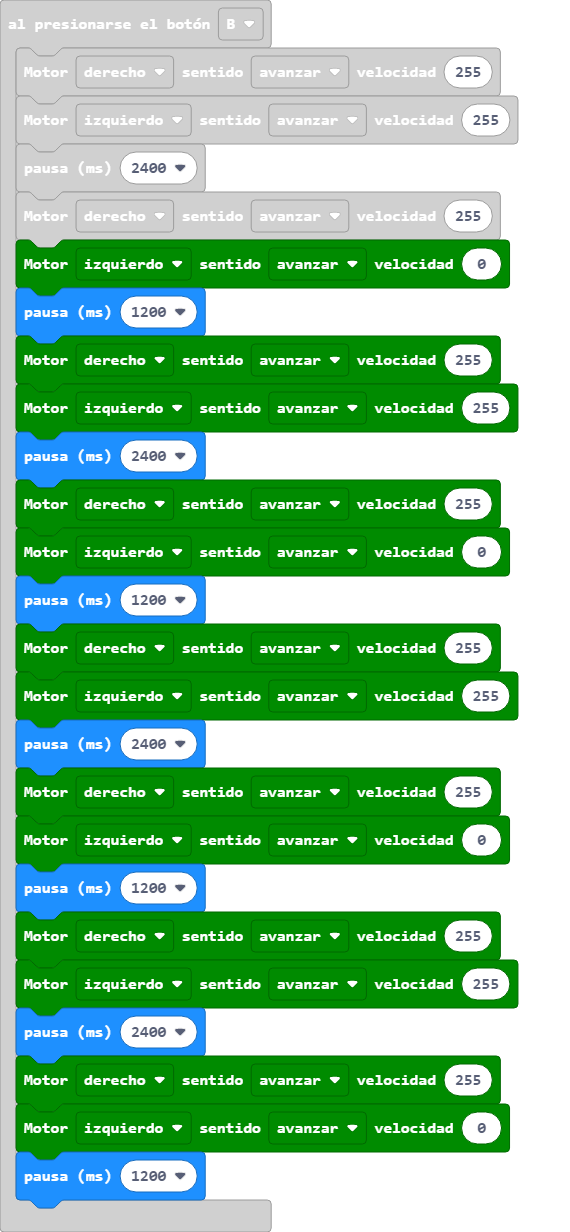
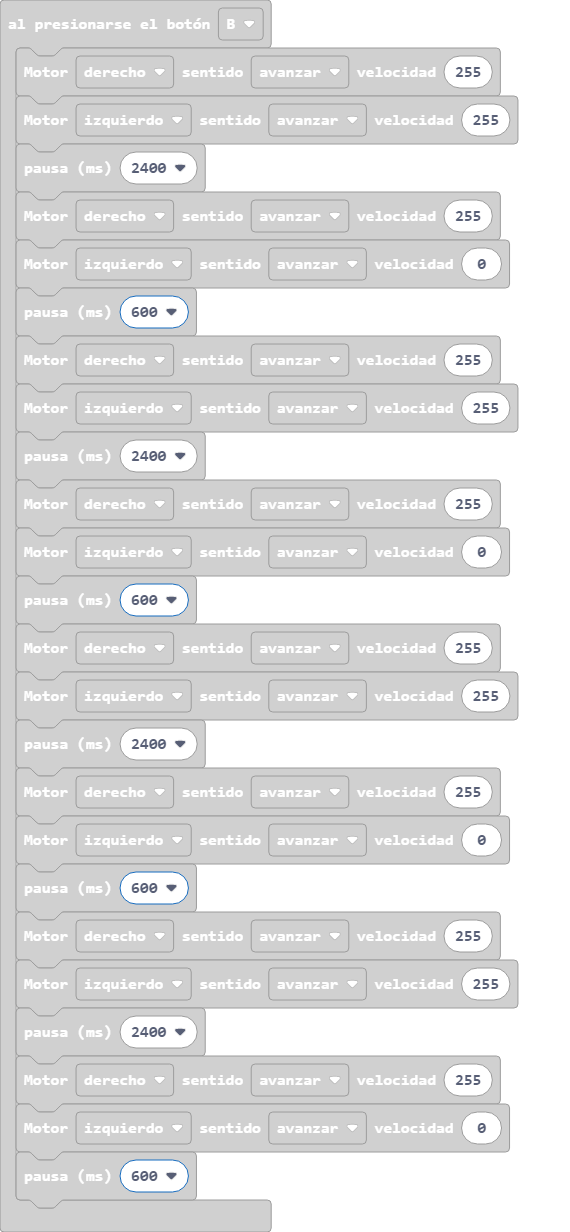
Actualizar main.blocks, main.ts

diff --git a/main.ts b/main.ts
@@ -20,23 +20,23 @@ input.onButtonPressed(Button.B, function () {
     basic.pause(2400)
     maqueen.motorRun(maqueen.Motors.M2, maqueen.Dir.CW, 255)
     maqueen.motorRun(maqueen.Motors.M1, maqueen.Dir.CW, 0)
-    basic.pause(1200)
+    basic.pause(600)
     maqueen.motorRun(maqueen.Motors.M2, maqueen.Dir.CW, 255)
     maqueen.motorRun(maqueen.Motors.M1, maqueen.Dir.CW, 255)
     basic.pause(2400)
     maqueen.motorRun(maqueen.Motors.M2, maqueen.Dir.CW, 255)
     maqueen.motorRun(maqueen.Motors.M1, maqueen.Dir.CW, 0)
-    basic.pause(1200)
+    basic.pause(600)
     maqueen.motorRun(maqueen.Motors.M2, maqueen.Dir.CW, 255)
     maqueen.motorRun(maqueen.Motors.M1, maqueen.Dir.CW, 255)
     basic.pause(2400)
     maqueen.motorRun(maqueen.Motors.M2, maqueen.Dir.CW, 255)
     maqueen.motorRun(maqueen.Motors.M1, maqueen.Dir.CW, 0)
-    basic.pause(1200)
+    basic.pause(600)
     maqueen.motorRun(maqueen.Motors.M2, maqueen.Dir.CW, 255)
     maqueen.motorRun(maqueen.Motors.M1, maqueen.Dir.CW, 255)
     basic.pause(2400)
     maqueen.motorRun(maqueen.Motors.M2, maqueen.Dir.CW, 255)
     maqueen.motorRun(maqueen.Motors.M1, maqueen.Dir.CW, 0)
-    basic.pause(1200)
+    basic.pause(600)
 })
